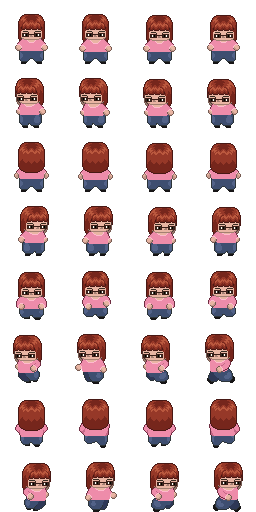
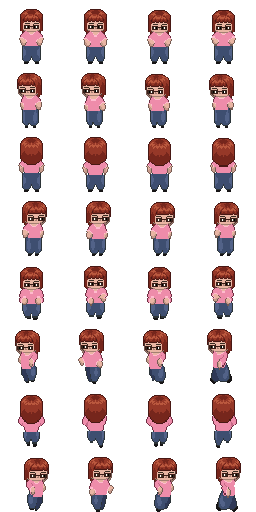
Ritratti illustrati e skin snelle per rossa, mora e PZ
- npc2/npc4/npc6: personaggi più snelli e slanciati, vita stretta;
  npc6 è la skin di Paolo (ciuffo, pizzetto, maglietta rossa),
  npc4 con occhiali neri
- assets/characters/portraits: ritratti quadrati (npcN.jpg) e fino
  all'ombelico (npcN_full.jpg)
- server: /char/portraits (elenco) e /char/portraitN[_full].jpg
- overlay: faceN() usa il ritratto quando esiste, altrimenti il
  ritaglio pixel; il riquadro accanto alla chat mostra il ritratto intero
- Godot: la targhetta usa CharacterFactory.portrait_texture()

diff --git a/daemon/overlay.html b/daemon/overlay.html
@@ -184,6 +184,10 @@
     /* idle cycle: 4 frames, 64px cell stride at 3x = 192px per step */
     animation: compIdle 1.1s steps(4) infinite;
   }
+  #companion .body.portrait {
+    width: 120px; height: 160px; animation: none; border-radius: 10px;
+    background-repeat: no-repeat; box-shadow: 0 0 0 1px rgba(255,255,255,0.08);
+  }
   @keyframes compIdle {
     from { background-position-x: -48px; }
     to { background-position-x: -816px; }
@@ -1789,19 +1793,56 @@
   }
   // CSS sprite crops from the 256x512 sheet (cell 64): face (14,14,36,36)
   // keeps the face centered with chin + shoulders; standing body (16,6,32,54).
-  function face(el, id, size) {
+  // Illustrated portraits (assets/characters/portraits/npcN.jpg): avatars that
+  // have one show it instead of the pixel crop. The list arrives async, so
+  // every face drawn before it lands is redrawn from its data-face-* marks.
+  let PORTRAITS = new Set();
+  fetch("/char/portraits").then((r) => r.json()).then((a) => {
+    PORTRAITS = new Set(a);
+    document.querySelectorAll("[data-face-n]").forEach((el) =>
+      faceN(el, +el.dataset.faceN, +el.dataset.faceSize, +el.dataset.faceDy));
+    if (_compId) body(document.getElementById("compBody"), _compId);
+  }).catch(() => {});
+  function faceN(el, n, size, dy = -14) {
+    el.dataset.faceN = n; el.dataset.faceSize = size; el.dataset.faceDy = dy;
+    if (PORTRAITS.has(n)) {
+      el.style.backgroundImage = `url(/char/portrait${n}.jpg)`;
+      el.style.backgroundSize = "cover";
+      el.style.backgroundPosition = "center";
+      el.style.imageRendering = "auto";
+      return;
+    }
     const k = size / 36;
-    el.style.backgroundImage = `url(/char/npc${npcOf(id)}.png)`;
+    el.style.backgroundImage = `url(/char/npc${n}.png)`;
     el.style.backgroundSize = `${256 * k}px ${512 * k}px`;
-    el.style.backgroundPosition = `${-14 * k}px ${-14 * k}px`;
+    el.style.backgroundPosition = `${-14 * k}px ${dy * k}px`;
+    el.style.imageRendering = "";
+  }
+  function face(el, id, size) {
+    faceN(el, npcOf(id), size);
     el.classList.add("px");
     el.textContent = "";
   }
+  let _compId = null;
   function body(el, id) {
+    _compId = id;
+    const n = npcOf(id);
+    if (PORTRAITS.has(n)) {
+      // waist-up illustration in place of the animated pixel body
+      el.classList.add("portrait");
+      el.style.backgroundImage = `url(/char/portrait${n}_full.jpg)`;
+      el.style.backgroundSize = "cover";
+      el.style.backgroundPosition = "center top";
+      el.style.imageRendering = "auto";
+      return;
+    }
+    el.classList.remove("portrait");
+    el.style.imageRendering = "";
     const k = 3;
-    el.style.backgroundImage = `url(/char/npc${npcOf(id)}.png)`;
+    el.style.backgroundImage = `url(/char/npc${n}.png)`;
     el.style.backgroundSize = `${256 * k}px ${512 * k}px`;
     // x is driven by the compIdle keyframes (4-frame idle cycle)
+    el.style.backgroundPosition = "";
     el.style.backgroundPositionY = `${-6 * k}px`;
   }
 
@@ -5627,10 +5668,8 @@
     next.title = tr("agent ถัดไป") + " (" + k + "→) · " + tr("บันทึกก่อนเปลี่ยน");
     prev.setAttribute("aria-label", tr("agent ก่อนหน้า"));
     next.setAttribute("aria-label", tr("agent ถัดไป"));
-    const av = document.getElementById("eNavAv"), s = 22 / 36;   // the face, as the ID card crops it
-    av.style.backgroundImage = "url(/char/npc" + npcOf(info.id) + ".png)";
-    av.style.backgroundSize = 256 * s + "px " + 512 * s + "px";
-    av.style.backgroundPosition = -14 * s + "px " + -12 * s + "px";
+    const av = document.getElementById("eNavAv");   // the face, as the ID card crops it
+    faceN(av, npcOf(info.id), 22, -12);
     document.getElementById("eNavName").textContent = info.name || info.id;
     document.getElementById("eNavCount").textContent = info.n + " / " + info.N;
     document.getElementById("eNavDirty").title = tr("มีการแก้ไขที่ยังไม่บันทึก");
@@ -5928,10 +5967,7 @@
     for (let n = 1; n <= 12; n++) {
       const c = document.createElement("div");
       c.className = "av px" + (n === avatar ? " sel" : "");
-      const k = 58 / 36;
-      c.style.backgroundImage = `url(/char/npc${n}.png)`;
-      c.style.backgroundSize = `${256 * k}px ${512 * k}px`;
-      c.style.backgroundPosition = `${-14 * k}px ${-14 * k}px`;
+      faceN(c, n, 58);
       c.onclick = () => {
         avatar = n;
         grid.querySelectorAll(".av").forEach((x) => x.classList.remove("sel"));
@@ -6303,10 +6339,7 @@
         </div>
       </div>`;
     const f = modalCard.querySelector("#cardFace");
-    const k = 108 / 36;
-    f.style.backgroundImage = `url(/char/npc${npcOf(id)}.png)`;
-    f.style.backgroundSize = `${256 * k}px ${512 * k}px`;
-    f.style.backgroundPosition = `${-14 * k}px ${-14 * k}px`;
+    faceN(f, npcOf(id), 108);
     modalCard.querySelector("#cardEdit").onclick = () => ROSTER[id] ? openEditor(id) : null;
     modalCard.querySelector("#cardChat").onclick = () => { closeModal(); setTarget(id); };
   }
@@ -7659,10 +7692,7 @@
       f.style.borderRadius = "5px";
       f.style.backgroundColor = "#1c2740";
       f.style.outline = "1px solid rgba(255,255,255,0.15)";
-      const k = size / 36;
-      f.style.backgroundImage = `url(/char/npc${npcOf(id)}.png)`;
-      f.style.backgroundSize = `${256 * k}px ${512 * k}px`;
-      f.style.backgroundPosition = `${-14 * k}px ${-14 * k}px`;
+      faceN(f, npcOf(id), size);
       f.title = `${nameOf(id)} — ${roleOf(id)}`;
       wrap.appendChild(f);
     }
@@ -8043,10 +8073,7 @@
       c.className = "chk";
       const f = document.createElement("div");
       f.className = "mini px";
-      const k = 18 / 36;
-      f.style.backgroundImage = `url(/char/npc${npcOf(id)}.png)`;
-      f.style.backgroundSize = `${256 * k}px ${512 * k}px`;
-      f.style.backgroundPosition = `${-14 * k}px ${-14 * k}px`;
+      faceN(f, npcOf(id), 18);
       c.appendChild(f);
       c.appendChild(document.createTextNode(`${nameOf(id)} · ${roleOf(id)}`));
       c.onclick = () => { picked.has(id) ? picked.delete(id) : picked.add(id); c.classList.toggle("on"); };
@@ -8099,10 +8126,7 @@
       ic.style.top = ((p.z - MAP.z0) / MAP.d * 100) + "%";
       ic.style.outlineColor = isGhost ? "#a5b8ff" : (DOTS[p.state] || "#4ade80");
       if (isGhost) ic.style.opacity = "0.55";
-      const k = 26 / 36;
-      ic.style.backgroundImage = `url(/char/npc${npcOf(baseId)}.png)`;
-      ic.style.backgroundSize = `${256 * k}px ${512 * k}px`;
-      ic.style.backgroundPosition = `${-14 * k}px ${-14 * k}px`;
+      faceN(ic, npcOf(baseId), 26);
       const label = isGhost ? `👻 ${nameOf(baseId)}` : nameOf(p.id);
       ic.innerHTML = `<div class="tag">${label}</div>`;
       ic.title = `${label} — ${p.state}`;

diff --git a/daemon/server.js b/daemon/server.js
@@ -5129,6 +5129,26 @@ const server = http.createServer((req, res) => {
       res.end(data);
     });
 
+  } else if (req.method === "GET" && req.url === "/char/portraits") {
+    // Which avatars have an illustrated portrait (assets/characters/portraits/npcN.jpg)
+    const dir = path.join(__dirname, "..", "godot", "assets", "characters", "portraits");
+    fs.readdir(dir, (e, files) => {
+      const list = e ? [] : files.map((f) => (/^npc([1-9]|1[0-2])\.jpg$/.exec(f) || [])[1])
+        .filter(Boolean).map(Number).sort((a, b) => a - b);
+      res.writeHead(200, { "content-type": "application/json", "cache-control": "no-cache" });
+      res.end(JSON.stringify(list));
+    });
+
+  } else if (req.method === "GET" && /^\/char\/portrait([1-9]|1[0-2])(_full)?\.jpg$/.test(req.url)) {
+    // Illustrated portraits: square face (npcN.jpg) and waist-up (npcN_full.jpg)
+    const f = path.join(__dirname, "..", "godot", "assets", "characters", "portraits",
+      req.url.split("/").pop().replace("portrait", "npc"));
+    fs.readFile(f, (e, data) => {
+      if (e) { res.writeHead(404); res.end(); return; }
+      res.writeHead(200, { "content-type": "image/jpeg", "cache-control": "no-cache" });
+      res.end(data);
+    });
+
   } else if (req.method === "GET" && /^\/char\/npc([1-9]|1[0-2])\.png$/.test(req.url)) {
     // Character sheets for overlay portraits (404 → CSS falls back to initials)
     const f = path.join(__dirname, "..", "godot", "assets", "characters", "npc",
